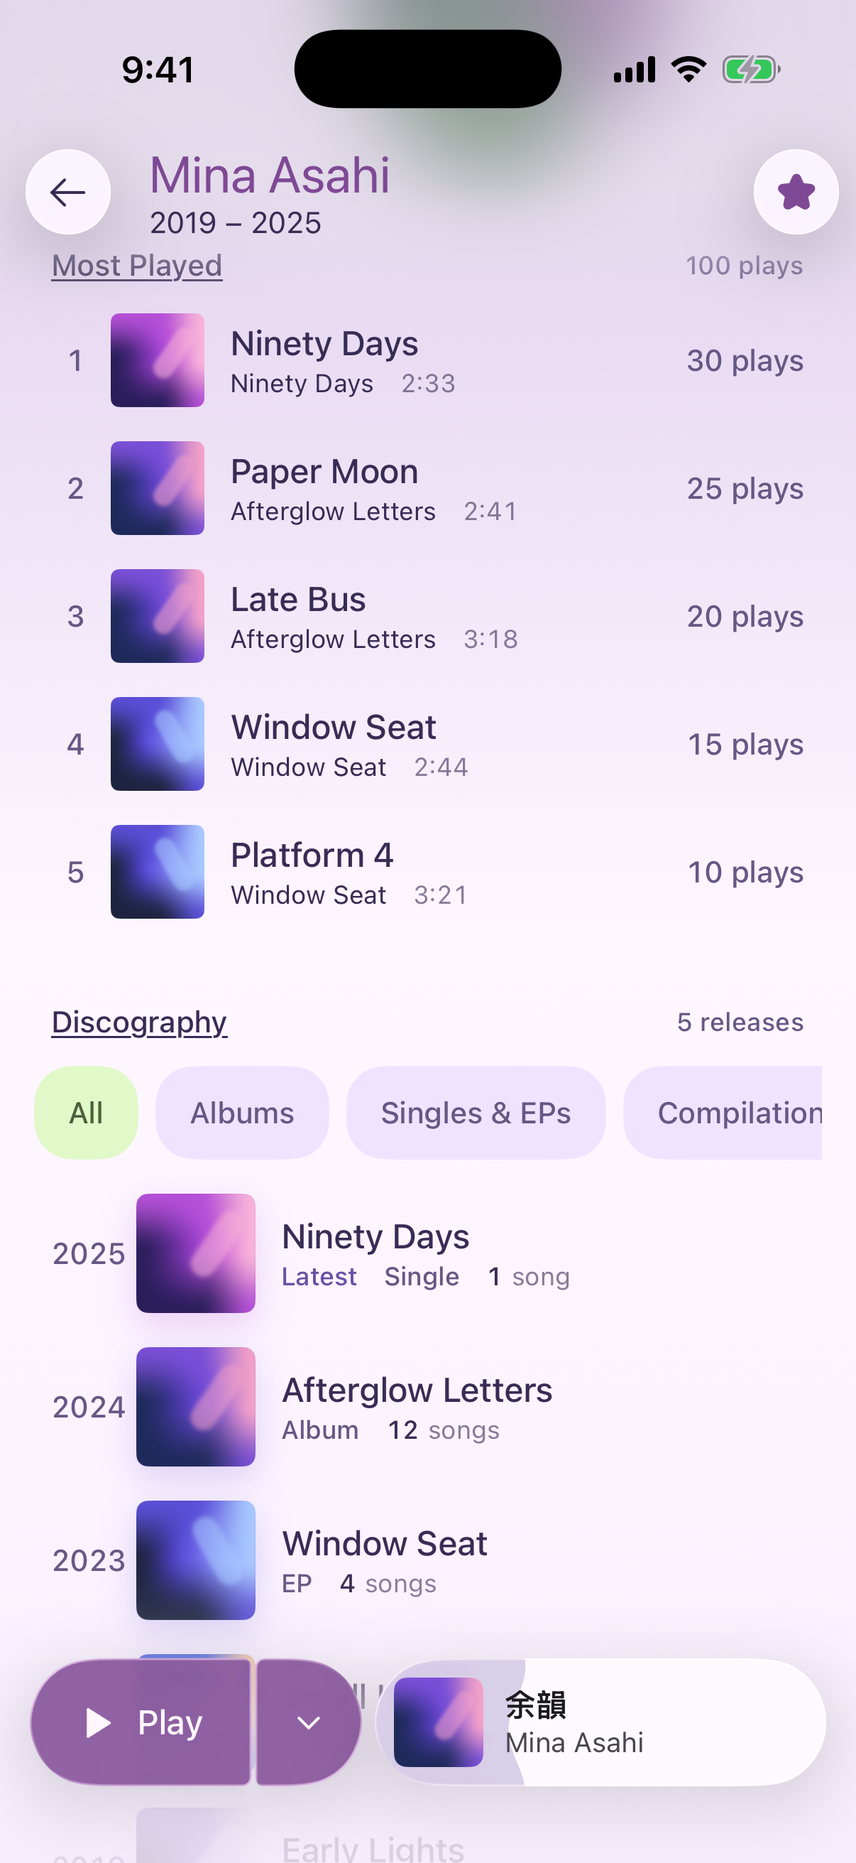
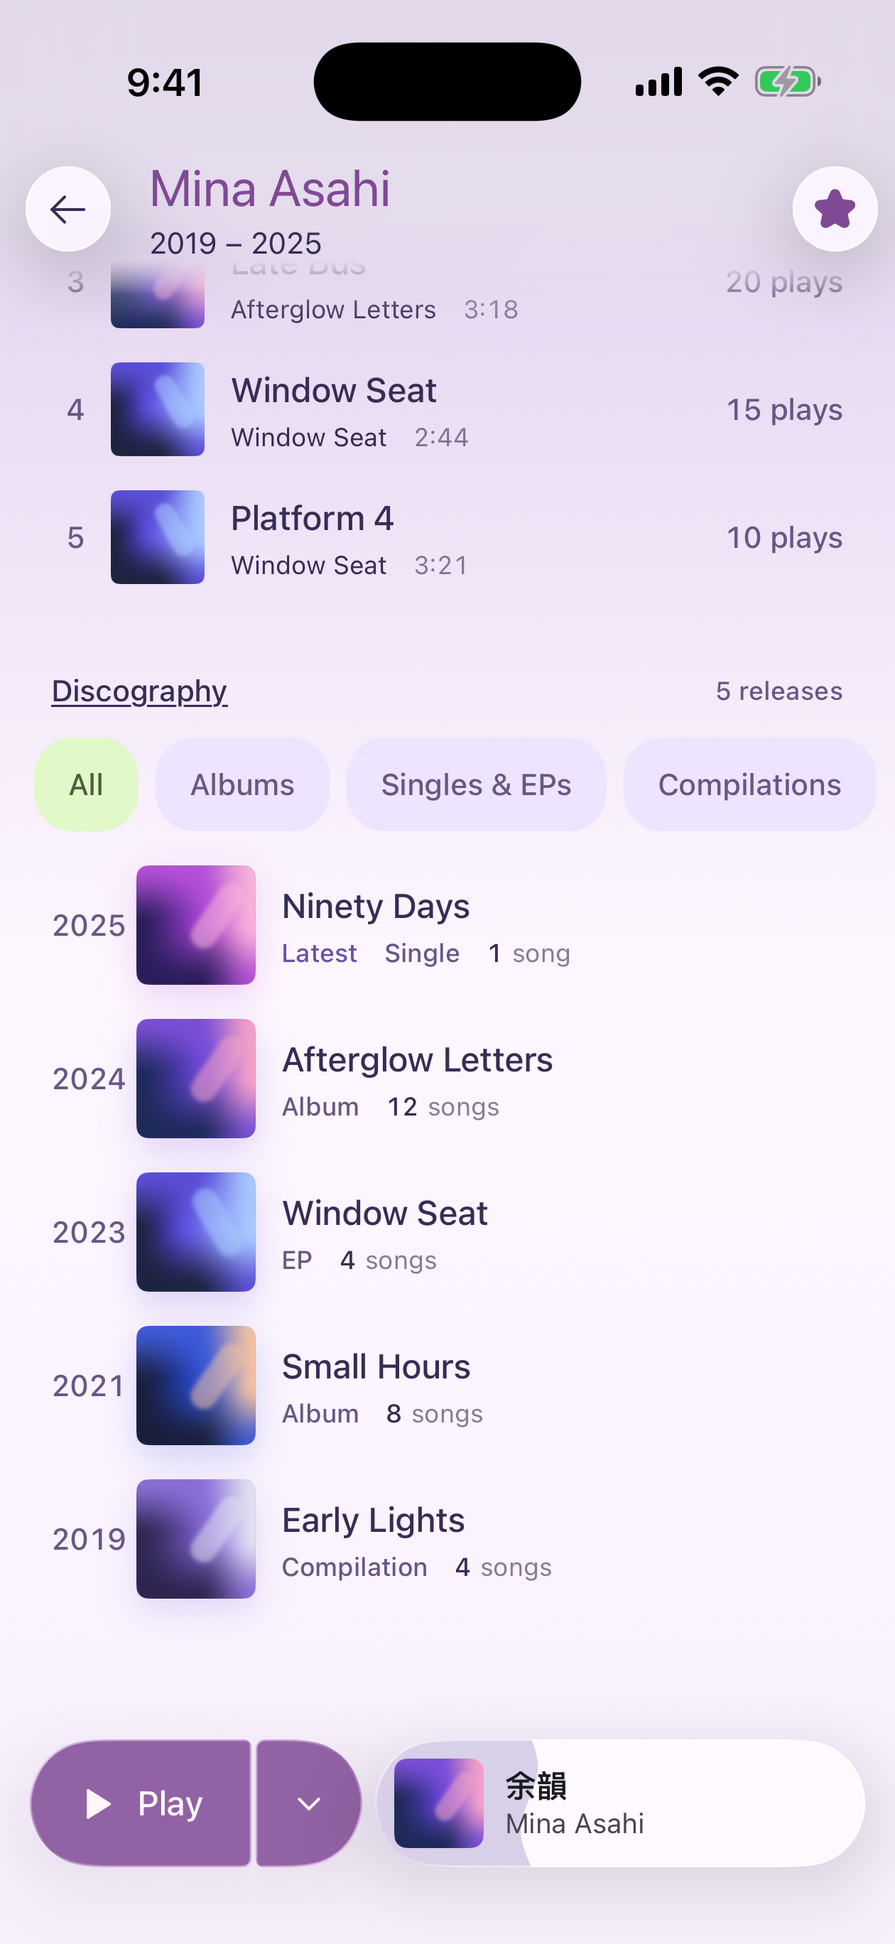
ios(artist): layout parity with Android (role line boxes, 62 header, star 24 + pop, full-bleed chips, 120 bottom, header mask)

diff --git a/iosApp/Yoin/Artist/ArtistDetailView.swift b/iosApp/Yoin/Artist/ArtistDetailView.swift
@@ -15,6 +15,7 @@ struct ArtistDetailView: View {
     @State private var kindFilter: ReleaseKind?
     @State private var showAll = false
     @State private var scrollY: CGFloat = 0
+    @State private var scrollPosition = ScrollPosition(edge: .top)
 
     private var releases: [Album] { MockLibrary.shared.releases(by: artist) }
     private var hero: Album { releases.first ?? MockLibrary.allAlbums[0] }
@@ -41,11 +42,30 @@ struct ArtistDetailView: View {
                         }
                         .padding(.horizontal, 16)
                         .frame(maxWidth: 720)
+                        // Android pads the column 120 above the nav bar
+                        // (ArtistDetailScreen.kt:112): the last release clears the bar.
+                        Spacer().frame(height: 120)
                     }
                 }
                 .onScrollGeometryChange(for: CGFloat.self) { $0.contentOffset.y } action: { _, y in scrollY = y }
-                .contentMargins(.bottom, 24, for: .scrollContent)
-                .defaultScrollAnchor(LaunchConfig.screen == "artist-bottom" ? .bottom : .top)
+                // Content starts under the header and dissolves at its bottom
+                // edge (Android: the column sits below the header; tide line).
+                .mask {
+                    VStack(spacing: 0) {
+                        Color.clear.frame(height: headerHeight - 8)
+                        LinearGradient(colors: [.clear, .black], startPoint: .top, endPoint: .bottom).frame(height: 16)
+                        Color.black
+                    }
+                    .ignoresSafeArea(edges: .bottom)
+                }
+                .scrollPosition($scrollPosition)
+                .task {
+                    // `-screen artist-bottom`: the default anchor settled short of
+                    // the end, so scroll there once the page has laid out.
+                    guard LaunchConfig.screen == "artist-bottom" else { return }
+                    try? await Task.sleep(for: .milliseconds(300))
+                    scrollPosition.scrollTo(edge: .bottom)
+                }
                 .scrollEdgeEffectStyle(.soft, for: .bottom)
                 header
                     .background(alignment: .top) {
@@ -67,7 +87,11 @@ struct ArtistDetailView: View {
         .toolbar(.hidden, for: .navigationBar)
     }
 
-    private var headerHeight: CGFloat { 4 + 48 + 6 }
+    /// 4 top + the title column (headlineSmall 32 + bodyMedium 20 line boxes,
+    /// taller than the 48 buttons) + 6 bottom.
+    private var headerHeight: CGFloat {
+        4 + max(48, Tokens.type.headlineSmall.lineHeight.cg + (yearSpan == nil ? 0 : Tokens.type.bodyMedium.lineHeight.cg)) + 6
+    }
 
     private var background: some View {
         LinearGradient(colors: [app.surfaceContainer.mix(with: s.primary, by: 0.18, in: .perceptual),
@@ -98,17 +122,29 @@ struct ArtistDetailView: View {
             .accessibilityLabel("Back")
             Spacer().frame(width: 14)
             VStack(alignment: .leading, spacing: 0) {
-                Text(artist).font(.gsf(24)).foregroundStyle(s.primary).lineLimit(1)
+                Text(artist).lineLimit(1)
+                    .yoinRole(Tokens.type.headlineSmall)
+                    .foregroundStyle(s.primary)
                 if let yearSpan {
-                    Text(yearSpan).font(.gsf(14)).foregroundStyle(app.onSurface)
+                    Text(yearSpan).lineLimit(1)
+                        .yoinRole(Tokens.type.bodyMedium)
+                        .foregroundStyle(app.onSurface)
                 }
             }
             .frame(maxWidth: .infinity, alignment: .leading)
             Button {
-                withAnimation(.spring(duration: 0.09)) { following.toggle() }
+                withAnimation(Yoin.effects) { following.toggle() }
             } label: {
-                YoinIcon(following ? "star_filled" : "star", size: 22)
-                    .foregroundStyle(following ? AnyShapeStyle(s.primary) : AnyShapeStyle(.primary))
+                // M3 IconButton: 24 icon in a 40 box; tint primary-of-cover on,
+                // onSurfaceVariant off. The tap pops it (tween 90 ms up, spring back).
+                YoinIcon(following ? "star_filled" : "star", size: 24)
+                    .foregroundStyle(following ? s.primary : app.onSurfaceVariant)
+                    .keyframeAnimator(initialValue: 1.0, trigger: following) { v, k in
+                        v.scaleEffect(k)
+                    } keyframes: { _ in
+                        LinearKeyframe(following ? 1.25 : 1.15, duration: 0.09)
+                        SpringKeyframe(1.0, duration: 0.4, spring: .init(response: 0.35, dampingRatio: 0.6))
+                    }
                     .frame(width: 40, height: 40)
                     .contentShape(.circle)
             }
@@ -158,10 +194,14 @@ struct ArtistDetailView: View {
     // MARK: Most Played
 
     private func sectionHeader(_ title: String, _ trailing: String) -> some View {
-        HStack {
-            Text(title).font(.gsf(14, .medium)).underline().foregroundStyle(app.onSurface)
-            Spacer()
-            Text(trailing).font(.gsf(12, .medium)).tracking(0.1).foregroundStyle(app.onSurfaceVariant)
+        HStack(spacing: 0) {
+            Text(title).underline()
+                .yoinRole(Tokens.type.labelLarge)
+                .foregroundStyle(app.onSurface)
+            Spacer(minLength: 8)
+            Text(trailing)
+                .yoinRole(Tokens.type.labelMedium)
+                .foregroundStyle(app.onSurfaceVariant)
         }
         .padding(.horizontal, 8)
     }
@@ -174,27 +214,37 @@ struct ArtistDetailView: View {
             Spacer().frame(height: 6)
             ForEach(Array(picks.enumerated()), id: \.offset) { i, item in
                 let (a, t, plays) = item
-                HStack(spacing: 12) {
-                    Text("\(i + 1)").font(.gsf(14, .medium)).monospacedDigit()
-                        .foregroundStyle(app.onSurfaceVariant).frame(minWidth: 16, alignment: .trailing)
-                    CoverArt(palette: a.palette, cornerRadius: 0, seed: a.seed)
-                        .frame(width: 44, height: 44)
-                        .clipShape(.rect(cornerRadius: 4, style: .continuous))
-                    VStack(alignment: .leading, spacing: 2) {
-                        Text(t.title).font(.gsf(16, .medium)).foregroundStyle(app.onSurface)
-                        HStack(spacing: 12) {
-                            Text(a.title).foregroundStyle(app.onSurface)
-                            Text(formatTime(t.durationSec)).foregroundStyle(app.onSurface.opacity(0.6))
-                        }
-                        .font(.gsf(12)).monospacedDigit()
+                Button {
+                    withAnimation(Yoin.effects) {
+                        model.playback.album = a
+                        model.playback.track = t
+                        model.playback.positionSec = 0
                     }
-                    .lineLimit(1)
-                    Spacer(minLength: 8)
-                    Text(plays == 1 ? "1 play" : "\(plays) plays")
-                        .font(.gsf(14, .medium)).monospacedDigit()
-                        .foregroundStyle(app.onSurfaceVariant)
+                } label: {
+                    HStack(spacing: 12) {
+                        Text("\(i + 1)").monospacedDigit()
+                            .yoinRole(Tokens.type.labelLarge)
+                            .foregroundStyle(app.onSurfaceVariant)
+                            .frame(minWidth: 16, alignment: .trailing)
+                        CoverArt(palette: a.palette, cornerRadius: 0, seed: a.seed)
+                            .frame(width: 44, height: 44)
+                            .clipShape(.rect(cornerRadius: Tokens.shape.THUMB.cg, style: .continuous))
+                        VStack(alignment: .leading, spacing: 2) {
+                            Text(t.title).lineLimit(1)
+                                .yoinRole(Tokens.type.titleMedium)
+                                .foregroundStyle(app.onSurface)
+                            LibraryMetaLine(parts: [(a.title, false), (formatTime(t.durationSec), true)], scheme: app)
+                                .monospacedDigit()
+                        }
+                        .frame(maxWidth: .infinity, alignment: .leading)
+                        Text(plays == 1 ? "1 play" : "\(plays) plays").monospacedDigit()
+                            .yoinRole(Tokens.type.labelLarge)
+                            .foregroundStyle(app.onSurfaceVariant)
+                    }
+                    .padding(8)
+                    .contentShape(.rect(cornerRadius: Tokens.shape.LIST_ROW.cg))
                 }
-                .padding(8)
+                .buttonStyle(PressScale())
             }
         }
     }
@@ -216,6 +266,9 @@ struct ArtistDetailView: View {
         return VStack(alignment: .leading, spacing: 0) {
             sectionHeader("Discography", releases.count == 1 ? "1 release" : "\(releases.count) releases")
             if kinds.count >= 2 {
+                // Full-bleed with the 16 page margin inside the scroll, so the
+                // chips run off the screen edge instead of stopping mid-page
+                // (owner rule; Android clips at the section padding with a fade).
                 ScrollView(.horizontal) {
                     HStack(spacing: 8) {
                         chip("All", on: kindFilter == nil) { kindFilter = nil }
@@ -226,6 +279,8 @@ struct ArtistDetailView: View {
                     }
                 }
                 .scrollIndicators(.hidden)
+                .contentMargins(.horizontal, 16, for: .scrollContent)
+                .padding(.horizontal, -16)
                 .padding(.top, 12)
             }
             Spacer().frame(height: 8)
@@ -233,11 +288,18 @@ struct ArtistDetailView: View {
                 releaseRow(r, firstOfYear: i == 0 || visible[i - 1].year != r.year, latest: r.id == releases.first?.id)
             }
             if shown.count > 8 {
-                Button(showAll ? "Show fewer" : "Show all \(shown.count)") {
+                // M3 TextButton: 12 × 8 content padding, min height 40.
+                Button {
                     withAnimation(Yoin.spatial) { showAll.toggle() }
+                } label: {
+                    Text(showAll ? "Show fewer" : "Show all \(shown.count)")
+                        .yoinRole(Tokens.type.labelLarge)
+                        .foregroundStyle(s.primary)
+                        .padding(.horizontal, 12).padding(.vertical, 8)
+                        .frame(minHeight: 40)
+                        .contentShape(.capsule)
                 }
-                .font(.gsf(14, .medium))
-                .foregroundStyle(s.primary)
+                .buttonStyle(PressScale())
                 .padding(.leading, 48)
             }
         }
@@ -247,13 +309,15 @@ struct ArtistDetailView: View {
     private func chip(_ title: String, on: Bool, action: @escaping () -> Void) -> some View {
         Button { withAnimation(Yoin.effects) { action() } } label: {
             Text(title)
-                .font(.gsf(14, .medium))
-                .foregroundStyle(on ? app.onSecondaryContainer : app.onSurfaceVariant)
                 .lineLimit(1)
+                .yoinRole(Tokens.type.labelLarge)
+                .foregroundStyle(on ? app.onSecondaryContainer : app.onSurfaceVariant)
                 .padding(.horizontal, 16).padding(.vertical, 10)
                 .frame(minHeight: 44)
                 // These chips scroll with the page, so they stay solid (not glass).
-                .background(on ? app.secondaryContainer : app.surfaceContainerHigh, in: .rect(cornerRadius: 18))
+                // RoundedCornerShape(18): circular corners, not continuous.
+                .background(on ? app.secondaryContainer : app.surfaceContainerHigh,
+                            in: .rect(cornerRadius: 18, style: .circular))
         }
         .buttonStyle(PressScale())
     }
@@ -264,28 +328,41 @@ struct ArtistDetailView: View {
         Button { model.open(r) } label: {
             HStack(spacing: 0) {
                 Text(firstOfYear ? String(r.year) : "")
-                    .font(.gsf(14, .medium)).monospacedDigit()
+                    .monospacedDigit()
+                    .yoinRole(Tokens.type.labelLarge)
                     .foregroundStyle(app.onSurfaceVariant)
                     .padding(.leading, 8)
                     .frame(width: 48, alignment: .leading)
                 EntityBackdrop(entity: .album, palette: r.palette, seed: r.seed, size: 56, stroke: app.primary)
                 Spacer().frame(width: 12)
                 VStack(alignment: .leading, spacing: 2) {
-                    Text(r.title).font(.gsf(16, .medium)).foregroundStyle(app.onSurface).lineLimit(1)
+                    Text(r.title).lineLimit(1)
+                        .yoinRole(Tokens.type.titleMedium)
+                        .foregroundStyle(app.onSurface)
+                    // MetaLine (bodySmall): Kind groups in Medium (Latest in
+                    // primary, the kind in onSurfaceVariant), then a Stat:
+                    // the count Medium tabular onSurface, the unit at 60 %.
                     HStack(spacing: 12) {
-                        if latest { Text("Latest").fontWeight(.medium).foregroundStyle(app.primary) }
-                        Text(r.kind.rawValue).fontWeight(.medium).foregroundStyle(app.onSurfaceVariant)
+                        if latest {
+                            Text("Latest").yoinRole(Tokens.type.bodySmall, weight: .medium).foregroundStyle(app.primary)
+                        }
+                        Text(r.kind.rawValue).yoinRole(Tokens.type.bodySmall, weight: .medium)
+                            .foregroundStyle(app.onSurfaceVariant)
                         HStack(spacing: 4) {
-                            Text("\(r.tracks.count)").fontWeight(.medium).monospacedDigit().foregroundStyle(app.onSurface)
-                            Text(r.tracks.count == 1 ? "song" : "songs").foregroundStyle(app.onSurface.opacity(0.6))
+                            Text("\(r.tracks.count)").monospacedDigit()
+                                .yoinRole(Tokens.type.bodySmall, weight: .medium)
+                                .foregroundStyle(app.onSurface)
+                            Text(r.tracks.count == 1 ? "song" : "songs")
+                                .yoinRole(Tokens.type.bodySmall)
+                                .foregroundStyle(app.onSurface.opacity(0.6))
                         }
                     }
-                    .font(.gsf(12))
+                    .lineLimit(1)
                 }
-                Spacer(minLength: 0)
+                .frame(maxWidth: .infinity, alignment: .leading)
             }
             .padding(.trailing, 8).padding(.vertical, 8)
-            .contentShape(.rect(cornerRadius: 12))
+            .contentShape(.rect(cornerRadius: Tokens.shape.LIST_ROW.cg))
         }
         .buttonStyle(PressScale())
     }

diff --git a/iosApp/docs/fidelity/artist.md b/iosApp/docs/fidelity/artist.md
@@ -1,0 +1,89 @@
+# Artist: Android → iOS fidelity (Compact)
+
+Android source of truth: `app/src/main/java/com/gpo/yoin/ui/` (paths below are relative to it). iOS: `iosApp/Yoin/Artist/ArtistDetailView.swift`. 1 dp = 1 pt. Type roles come from the shared `YoinTokens.Typography` through `View.yoinRole(_:)` (GSF size + static weight, tracking, and the role's line height as the line box). Meta lines reuse `LibraryMetaLine` where Android uses `MetaLine` with Plain groups.
+
+Pass of 2026-11-04. Checked on the iPhone Air simulator, light and dark, with `-screen artist` and `-screen artist-bottom` (`iosApp/screenshots/iphone-artist{,-bottom}{,-dark}.png`).
+
+## Kept iOS decisions
+
+- Back and the follow star are glass circles (floating controls over scrolling content). Android: `FilledTonalIconButton` in surfaceContainer for back, a bare `IconButton` for the star.
+- The discography chips are solid (they scroll with the page), not glass.
+- The pinwheel is the real Yoin mark (`YoinMarkPaths`), drawn in a Canvas.
+- No halftone dots. The soft material band under the header stays as iOS's version of the tide line.
+- Release covers follow the iOS bare-cover rule (`EntityBackdrop`: continuous corner 3 + 0.045 × size, 0.5 stroke, tinted shadow). Android uses `YoinArtworkShapes.Cover` (4).
+
+## Header
+
+| Element | Android value (file:line) | iOS before | iOS after |
+|---|---|---|---|
+| Row padding | start 8, end 4, top 4, bottom 6 under the status bar (detail/ArtistDetailScreen.kt:367) | Same | Same |
+| Row height | max(48 buttons, title 32 + span 20) = 52, so the header is 62 (ArtistDetailScreen.kt:363-392) | 4 + 48 + 6 = 58; the hero started 4 too high | 4 + 52 + 6 = 62 (computed from the role line heights) |
+| Back | 40 in a 48 touch target, 22 icon (detail/DetailBackButton.kt:37-49) | 40 glass in 48, 22 icon | Same |
+| Back → title | Spacer 14 (ArtistDetailScreen.kt:372) | 14 | 14 |
+| Name | headlineSmall 24/32 w400, cover-scheme primary, 1 line (ArtistDetailScreen.kt:376-382) | 24 Regular, no line box | headlineSmall, 32 line box |
+| Year span | `DetailMetaLine` Plain, bodyMedium 14/20, onSurface (ArtistDetailScreen.kt:383-388) | 14 Regular, no line box | bodyMedium, 20 line box |
+| Follow star | `IconButton` 40 (48 touch), **24** icon; on = cover primary, off = **onSurfaceVariant**; effects spring tint; tap pop: tween 90 ms to 1.25 (on) / 1.15 (off), spatial spring back (ArtistDetailScreen.kt:417-451) | 22 icon, off = adaptive `.primary`, no pop | 24 icon, off = onSurfaceVariant, effects-spring tint, keyframed pop (90 ms linear up, spring back) |
+| Content under the header | The scroll column starts **below** the header, dissolving at its edge (seamDissolveViewport, ArtistDetailScreen.kt:100-109) | Scrolled up behind the header, text visible through the name and year | Masked at the header's bottom edge with a 16 fade; the material band stays above |
+
+## Pinwheel hero
+
+| Element | Android value (file:line) | iOS before | iOS after |
+|---|---|---|---|
+| Portrait | min(0.52 × width, 216), circle (ArtistDetailScreen.kt:134, 316-327) | Same | Same |
+| Band | full width × (portrait + 150), centred (ArtistDetailScreen.kt:293-312, 396) | Same | Same |
+| Mark | scale portrait × 2.1 / 1024, hub (512, 500), rest 30°, + 0.06° per px scrolled (detail/DetailBackdrops.kt:33-66; ArtistDetailScreen.kt:399) | Same (scroll pt × 3 × 0.06) | Same |
+| Arm colours | tertiary / primary / secondary of the cover scheme; centre lines surface @ 0.65 (ArtistDetailScreen.kt:160-167, 306) | Same | Same |
+| Hero → first section | 32 (ArtistDetailScreen.kt:145) | 32 | 32 |
+
+## Section headers
+
+| Element | Android value (file:line) | iOS before | iOS after |
+|---|---|---|---|
+| Padding | horizontal 8 inside the 16 page margin (ArtistDetailScreen.kt:541-547) | Same | Same |
+| Title | `AlbumSectionLabel`: labelLarge 14/20 Medium, underlined, onSurface (detail/AlbumDetailComponents.kt:318-337) | 14 Medium underlined, no line box | labelLarge, 20 line box |
+| Trailing count | labelMedium 12/16 Medium, 0.1 tracking, onSurfaceVariant (ArtistDetailScreen.kt:550-556) | 12 Medium, 0.1, no line box | labelMedium, 16 line box |
+
+## Most Played
+
+| Element | Android value (file:line) | iOS before | iOS after |
+|---|---|---|---|
+| Header → rows | 6 (ArtistDetailScreen.kt:467) | 6 | 6 |
+| Row | padding 8 × 8, spacing 12, clip ListRow 12, clickable (ArtistDetailScreen.kt:482-492) | padding 8, spacing 12; not tappable | Button with PressScale, ListRow 12 hit shape; plays the track |
+| Rank | labelLarge tabular, onSurfaceVariant, min width 16, end-aligned (ArtistDetailScreen.kt:494-502) | 14 Medium monospaced | labelLarge, 20 line box |
+| Thumb | 44, `YoinArtworkShapes.Thumb` 4 (ArtistDetailScreen.kt:503-514) | 44, literal 4 | 44, `Tokens.shape.THUMB` |
+| Title | titleMedium 16/24 Medium, onSurface, 1 line (ArtistDetailScreen.kt:521-527) | 16 Medium, no line box | titleMedium, 24 line box |
+| Title → meta | spacedBy 2 (ArtistDetailScreen.kt:519) | 2 | 2 |
+| Meta | MetaLine bodySmall tabular: album onSurface, 12 gap, duration at 60 % (ArtistDetailScreen.kt:432-442) | Hand-built, 12 Regular, no line box | `LibraryMetaLine` (bodySmall, 16 line box), monospaced digits |
+| Text column → plays | weight(1f) then 12 (row spacing) (ArtistDetailScreen.kt:515-535) | `Spacer(minLength: 8)` | Column fills, 12 row spacing |
+| Plays | labelLarge tabular, onSurfaceVariant (ArtistDetailScreen.kt:530-535) | 14 Medium monospaced | labelLarge, 20 line box |
+| Row height | 8 + max(44, 24 + 2 + 16) + 8 = 60 | ≈ 58 | 60 |
+| Section → Discography | bottom 32 (ArtistDetailScreen.kt:204) | 32 | 32 |
+
+## Discography
+
+| Element | Android value (file:line) | iOS before | iOS after |
+|---|---|---|---|
+| Header → chips | 12, only with ≥ 2 kinds (ArtistDetailScreen.kt:594-621) | 12 | 12 |
+| Chip row | `ExpressiveSegmentedTabs`, gap 8, inside the 16 section padding with an edge fade (component/ExpressiveComponents.kt:438-480) | Inside the 16 margin: "Compilations" chopped mid-page | **Full bleed**: the row runs to the screen edges with 16 content margins (owner rule: no mid-page truncation) |
+| Chip | min 44, `RoundedCornerShape(18)`, padding 16 × 10 (ExpressiveComponents.kt:520-532) | 44, **continuous** 18 | 44, circular 18 |
+| Chip label | labelLarge 14/20 Medium (ExpressiveComponents.kt:534-539) | 14 Medium, no line box | labelLarge, 20 line box |
+| Chip colours | on secondaryContainer / onSecondaryContainer, off surfaceContainerHigh / onSurfaceVariant, effects spring (ExpressiveComponents.kt:493-512) | Same | Same |
+| Chip labels | All, Albums, Singles & EPs, Compilations (values/strings_detail.xml:122-125) | Same | Same |
+| Chips → rows | 8 (ArtistDetailScreen.kt:622) | 8 | 8 |
+| Row | padding end 8, top/bottom 8, clip ListRow 12 (ArtistDetailScreen.kt:697-706) | Same, literal 12 | Same, `Tokens.shape.LIST_ROW` |
+| Year column | 48 wide, start 8, labelLarge tabular onSurfaceVariant, only on a year's first row (ArtistDetailScreen.kt:708-721, 686) | 48 / 8, 14 Medium | labelLarge, 20 line box |
+| Cover | 56 (ArtistDetailScreen.kt:722-733) | 56 `EntityBackdrop` | Same (iOS bare-cover rule) |
+| Cover → text | 12 (ArtistDetailScreen.kt:734) | 12 | 12 |
+| Title | titleMedium 16/24 Medium onSurface (ArtistDetailScreen.kt:741-747) | 16 Medium, no line box | titleMedium, 24 line box |
+| Meta | MetaLine bodySmall: Kind "Latest" Medium primary, Kind type Medium onSurfaceVariant, Stat count Medium tabular onSurface + unit Regular 60 %; gaps 12, inner 4 (ArtistDetailScreen.kt:755-772; component/MetaLine.kt:96-135) | Same values, 12 font without line box | Same, bodySmall line box (16) |
+| Row height | 8 + 56 + 8 = 72 | 72 | 72 |
+| Show all | `TextButton` (12 × 8 padding, min 40) at start 48, labelLarge in the cover accent; after 8 rows (ArtistDetailScreen.kt:661-683) | Bare button text at 48, no padding | 12 × 8 padding, min 40, labelLarge, PressScale |
+| Page bottom | 120 + nav bar (ArtistDetailScreen.kt:112) | contentMargins 24: the last release ended under the floating bar | 120 spacer at the end of the column |
+
+## Not matched
+
+- Page background: Android `ExpressivePageBackground` (accent + playback reaction); iOS keeps its cover-tinted gradient.
+- Discography empty state ("No releases") is not ported; the mock always has releases.
+- Show all is only reachable with more than 8 releases; the mock artist has 5, so it was not seen on screen.
+- Medium/Expanded and landscape heroes (`ArtistWideHero`, `ArtistLandscapeHero`) are out of this Compact pass.
+- `-screen artist-bottom` now scrolls to the end with `ScrollPosition` after layout; `defaultScrollAnchor(.bottom)` settled short of it.
